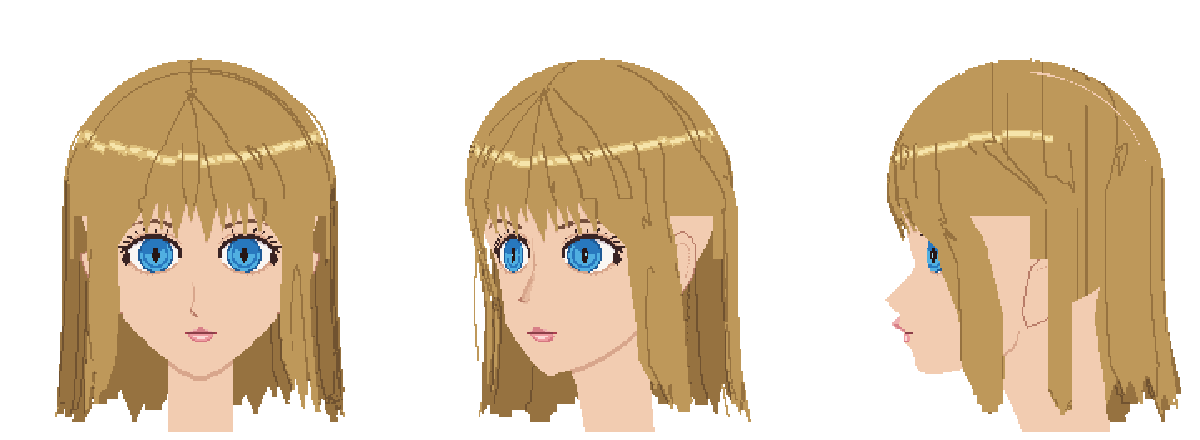
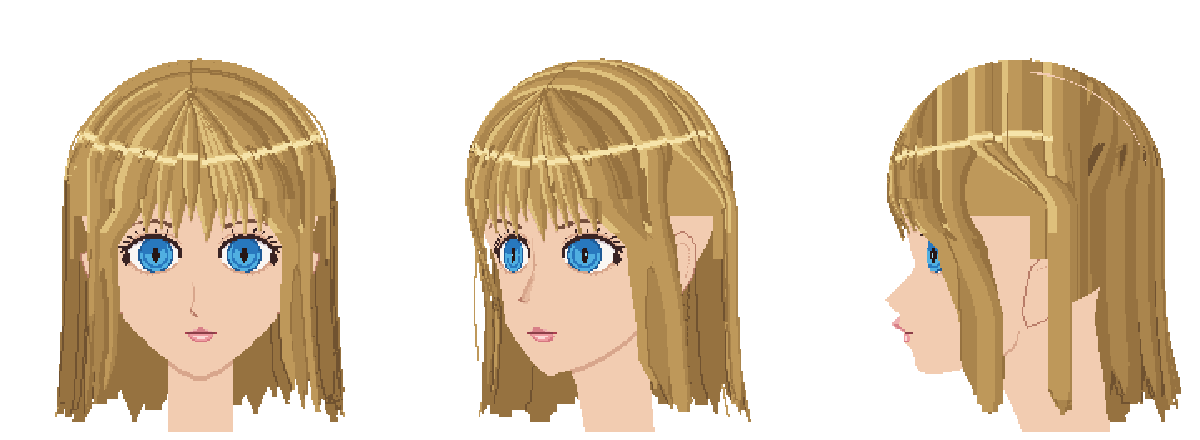
臉模 v2：長直髮加層次（每束左亮右暗、下層暗一階、後髮暗、大塊投影加寬漸層），高光只在大塊邊斷開
Claude-Session: https://claude.ai/code/session_01FDQv7ddy7JMjePn6AqJ3VJ

diff --git a/web/droom/face_mold/v2/hair_long.py b/web/droom/face_mold/v2/hair_long.py
@@ -14,7 +14,8 @@ from PIL import Image,ImageDraw,ImageFont
 sys.path.insert(0,os.path.dirname(os.path.abspath(__file__)))
 from hair3d import head_depth
 N=256;CY=112;R=72;RO=79;BACK=1.08
-C=dict(hi=(246,228,170),li=(222,192,124),mid=(190,152,90),sh=(150,114,64),dk=(112,82,48))
+C=dict(hi=(246,228,170),li=(222,192,124),mid=(190,152,90),ms=(170,133,77),sh=(150,114,64),dk=(112,82,48))
+TONE=['li','mid','ms','sh','dk']   # 明暗五階（使用者 2026-11-19：頭髮很假、沒有層次感）
 SKSH=(222,178,152)
 XP=-5                                   # 分線在她右邊一點（正面看畫面左邊）
 PHF,PHC=math.radians(46),math.radians(-30)   # 分線：從頭頂往前 46°（前額髮際）到往後 30°（頭頂後面）
@@ -147,7 +148,7 @@ def base_cap(S):
     keep=(y<hl)&((y<CY)|(z<-6)|((np.abs(x)>66)&(y<CY+14)))   # 耳朵上面那圈也有頭髮
     for xx,zz in zip(x[keep],z[keep]):P.append((xx,y,zz))
   P=np.array(P);NN=P-np.array([0,CY,0]);NN[:,1]=np.where(P[:,1]>CY,0,NN[:,1]);NN/=np.linalg.norm(NN,axis=1,keepdims=True)
-  return P,NN,np.full(len(P),k)
+  return np.asarray(P),np.concatenate([NN,np.zeros((len(NN),4))],1),np.full(len(P),k)
 def samples(S,step=.4):
   out=[]
   S[:]=[st for st in S if st.kind!='base']
@@ -163,8 +164,8 @@ def samples(S,step=.4):
     b/=np.linalg.norm(b,axis=1,keepdims=True)+1e-9
     hw=st.hw(l);K=int(2*hw.max()/.35)+2;w=np.linspace(-1,1,K)[None,:]*hw[:,None]
     Q=P[:,None,:]+b[:,None,:]*w[...,None]
-    NN=np.repeat(nr[:,None,:],K,1)
-    Q=Q.reshape(-1,3);NN=NN.reshape(-1,3)
+    NN=np.concatenate([np.repeat(nr[:,None,:],K,1),np.repeat(np.linspace(-1,1,K)[None,:,None],len(P),0),np.repeat(b[:,None,:],K,1)],2)
+    Q=Q.reshape(-1,3);NN=NN.reshape(-1,7)                # 每點：法線、在這束橫向的位置（-1～1）、橫向方向
     out.append((Q,NN,np.full(len(Q),k)))
   if any(st.kind=='bang' for st in S) and len(S)>12:out.append(base_cap(S))
   Q=np.concatenate([o[0] for o in out]);NN=np.concatenate([o[1] for o in out]);ID=np.concatenate([o[2] for o in out])
@@ -189,7 +190,9 @@ def project(S,Q,NN,ID,img,deg,cx):
     if ear and Q2[j,2]<-6:continue                        # 塞在耳後的頭髮不蓋耳朵
     if white[Yj,Xj] or ear or d[j]>=hd-1.5:
       inside=(NN2[j,0]*sa+NN2[j,2]*ca)<-.15               # 看到的是頭髮內面（後髮從前面看）
-      vis[(Xj,Yj)]=(ID2[j],S[ID2[j]].layer,Q2[j,0],Q2[j,1],Q2[j,2],inside)
+      bxs=NN2[j,4]*ca-NN2[j,6]*sa                          # 這束的橫向在畫面上往右還是往左
+      lft=-NN2[j,3]*np.sign(bxs) if abs(bxs)>.2 else 0.  # >0＝這束的左邊（受光）、<0＝右邊（背光）
+      vis[(Xj,Yj)]=(ID2[j],S[ID2[j]].layer,Q2[j,0],Q2[j,1],Q2[j,2],inside,lft)
   return vis
 def paint(S,vis,img,stage):
   out=img.copy();white=(img==255).all(2)
@@ -201,10 +204,22 @@ def paint(S,vis,img,stage):
     for (X,Y),(i,*_) in vis.items():
       out[Y,X]=pal.setdefault(i,tuple(rp.randint(60,240) for _ in range(3)))
     return out
-  for (X,Y),v in vis.items():out[Y,X]=C['sh'] if v[5] else C['mid']
+  # 明暗（層次）：每一束左亮右暗（有體積）；疊在下面那層暗一階；後髮暗一階；看到內面更暗
+  tone={}
+  for (X,Y),(i,layer,x,y,z,ins,lft) in vis.items():
+    st=S[i];t=1.
+    if ins:t=3
+    else:
+      if st.mass=='back':t+=1
+      if st.kind in('curtain','lock','back') and layer==0:t+=.6
+      if lft<-.45:t+=1
+      elif lft>.5 and y<CY+24 and st.mass!='back':t-=1
+    tone[(X,Y)]=t
+  T={k:int(min(4,max(0,round(v)))) for k,v in tone.items()}
+  for (X,Y),t in T.items():out[Y,X]=C[TONE[t]]
   # 片的邊：右邊或下面換片 → 這格暗；疊在別片上 → 右下投影子；分線兩邊一定畫；約 45% 一路到分線，其他只畫中下段
   rf=random.Random(13);full={};E={}
-  for (X,Y),(i,layer,x,y,z,ins) in vis.items():
+  for (X,Y),(i,layer,x,y,z,ins,*_) in vis.items():
     for nb in((X+1,Y),(X,Y+1)):
       r=vis.get(nb)
       if r is None or r[0]==i:continue
@@ -233,20 +248,25 @@ def paint(S,vis,img,stage):
     if len(cc)<5:continue
     for (X,Y) in cc:
       out[Y,X]=C['dk'] if vis[(X,Y)][5] else C['sh']
-      if E[(X,Y)] and (X+1,Y+1) in vis:out[Y+1,X+1]=C['sh']
+      if E[(X,Y)]:                                       # 上面那塊投在下面那塊的影子：2～3 格寬、越遠越淡
+        m=S[vis[(X,Y)][0]].mass
+        for dx,dy,tt in((1,1,3),(2,1,2),(1,2,2),(2,2,2),(3,1,2),(3,2,2)):
+          q=(X+dx,Y+dy)
+          if q in vis and S[vis[q][0]].mass!=m and T[q]<tt:T[q]=tt;out[q[1],q[0]]=C[TONE[tt]]
   # 前髮投在額頭的影子
   for (X,Y),(i,*_) in vis.items():
     if S[i].kind=='bang' and (X,Y+1) not in vis and Y+1<N and not white[Y+1,X]:out[Y+1,X]=SKSH
   if stage=='base':return out
   # 高光：殼上一圈（前面往下彎），每片上下錯開，在片的邊上斷開
   rnd=random.Random(3);off={}
-  for (X,Y),(i,layer,x,y,z,ins) in vis.items():
+  for (X,Y),(i,layer,x,y,z,ins,*_) in vis.items():
     if ins or y>CY or z<-RO*.25:continue
     o=off.setdefault(i,rnd.uniform(-2,2))
     ring=CY-34+15*(max(0,z)/RO)**2+o;dd=y-ring
-    same=vis.get((X-1,Y),(None,))[0]==i and vis.get((X+1,Y),(None,))[0]==i
+    mm=S[i].mass;nl=vis.get((X-1,Y));nr=vis.get((X+1,Y))
+    same=nl is not None and nr is not None and S[nl[0]].mass==mm and S[nr[0]].mass==mm   # 高光只在大塊的邊上斷開
     if abs(dd)<1.3 and same:out[Y,X]=C['hi']
-    elif abs(dd)<2.6 and tuple(out[Y,X])==C['mid']:out[Y,X]=C['li']
+    elif abs(dd)<2.6 and tuple(out[Y,X]) in(C['mid'],C['ms']):out[Y,X]=C['li']
   return out
 def strays(rnd):
   # 遊び毛：幾根離開主要髮束、飄在外面的細毛（3D 曲線）
